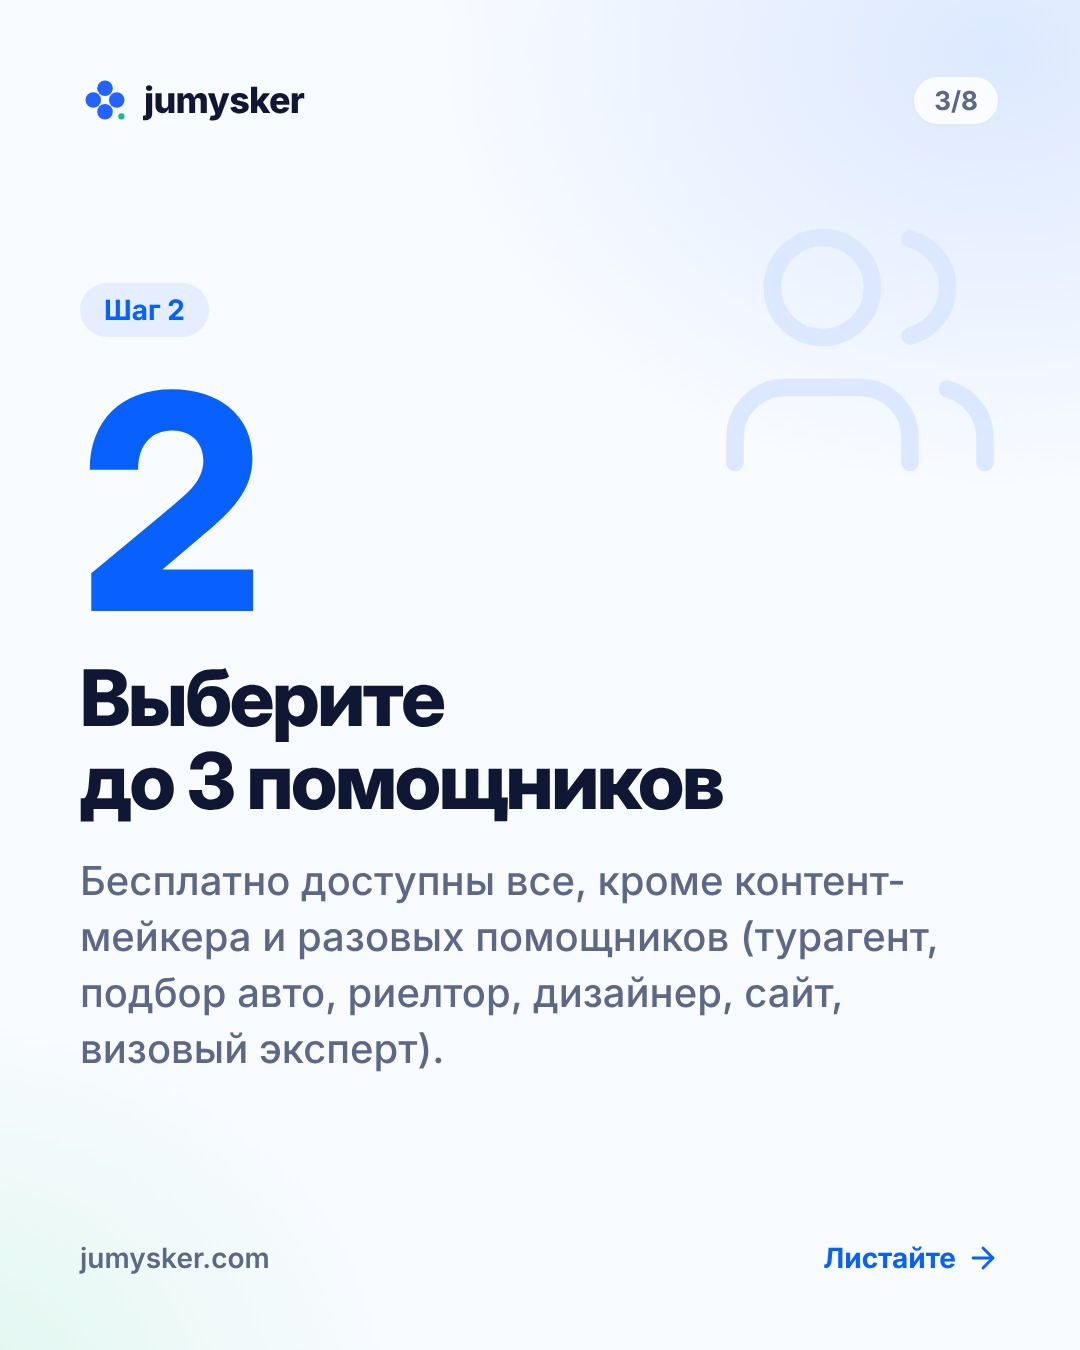
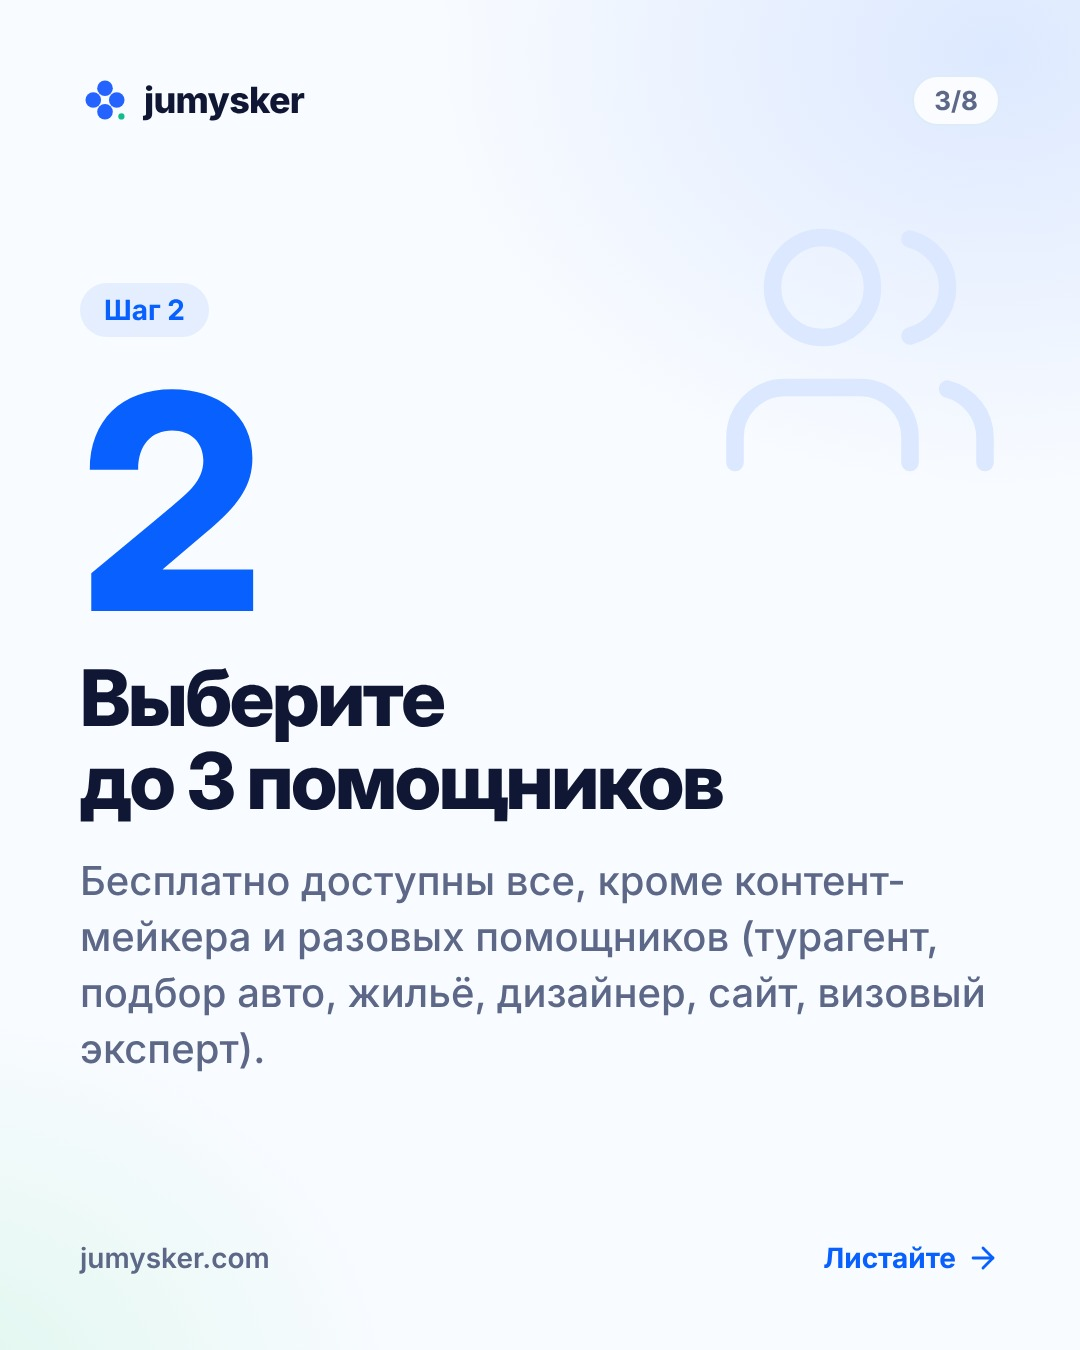
p02 follows the site of 28.10: assistants by task, housing helper
The site no longer names a lawyer, accountant or marketer: p02 lists the
assistants as sales and CRM, taxes and payroll, contracts, HR and texts,
the experts' trial limit names taxes, contracts and public procurement,
and the realtor is now the housing helper.

Claude-Session: https://claude.ai/code/session_019gEndRsAKXeKqa9cePPr5N

Changed region(s): [[0.0917, 0.7156, 0.9167, 0.8089]]

diff --git a/source/_build/content.py b/source/_build/content.py
@@ -82,7 +82,7 @@ POSTS = [
             {"type": "cover", "kicker": "Инструкция", "title": "Как начать с Jumysker <em>за 3 минуты</em>",
              "sub": "7 дней бесплатно · без банковской карты", "chips": ["Сохраните 📌"], "art": "browser.png"},
             {"type": "bigstep", "n": "1", "title": "Откройте jumysker.com", "body": "Нажмите «Попробовать» и зарегистрируйтесь. Сервис для пользователей от 18 лет.", "icon": "globe"},
-            {"type": "bigstep", "n": "2", "title": "Выберите до 3 помощников", "body": "Бесплатно доступны все, кроме контент-мейкера и разовых помощников (турагент, подбор авто, риелтор, дизайнер, сайт, визовый эксперт).", "icon": "users"},
+            {"type": "bigstep", "n": "2", "title": "Выберите до 3 помощников", "body": "Бесплатно доступны все, кроме контент-мейкера и разовых помощников (турагент, подбор авто, жильё, дизайнер, сайт, визовый эксперт).", "icon": "users"},
             {"type": "bigstep", "n": "3", "title": "Расскажите о компании", "body": "Услуги, цены, условия, как вы общаетесь с клиентами. Помощники будут учитывать это в ответах.", "icon": "building-2"},
             {"type": "text", "kicker": "Шаг 4", "title": "Поставьте первую задачу",
              "body": "Пишите так, как объяснили бы новому сотруднику.",
@@ -91,7 +91,7 @@ POSTS = [
                  ("b", "Понимаю вас! Скидок сейчас нет, но есть приятный бонус: при записи на две услуги — уход для рук в подарок 🎁 Подобрать время?")]}},
             {"type": "list", "kicker": "Лимиты пробного периода", "title": "Что входит в 7 бесплатных дней", "items": [
                 ("До 3 помощников", "Из доступных категорий"),
-                ("До 10 диалогов на помощника", "У экспертов — юриста, бухгалтера — до 5"),
+                ("До 10 диалогов на помощника", "У экспертов (налоги, договоры, госзакупки) — до 5"),
                 ("Диалог — это один чат за день", "Не путайте с количеством сообщений"),
                 ("Документы — после оплаты", "В пробный период — переписка и CRM; счета и договоры готовятся после оплаты")]},
             {"type": "list", "kicker": "Совет", "title": "Установите как приложение", "items": [
@@ -103,13 +103,13 @@ POSTS = [
         "caption": """Как начать работать с ИИ-помощниками за 3 минуты — и бесплатно 👇
 
 1⃣ Откройте jumysker.com (ссылка в профиле) и нажмите «Попробовать»
-2⃣ Выберите до 3 помощников: бухгалтер, юрист, продажи, маркетолог, HR и другие
+2⃣ Выберите до 3 помощников: продажи и CRM, налоги и зарплата, договоры, HR, тексты и другие
 3⃣ Расскажите о компании: услуги, цены, условия — помощники учтут это в ответах
 4⃣ Поставьте первую задачу обычными словами
 
 Пробный период — 7 дней без банковской карты. До 10 диалогов на помощника, у экспертов — до 5. В пробный период можно переписываться с помощниками и вести CRM, а счета и договоры готовятся после оплаты.
 
-Контент-мейкер и разовые помощники (турагент, подбор авто, риелтор, дизайнер интерьера, сайт, визовый эксперт) подключаются сразу с оплатой.
+Контент-мейкер и разовые помощники (турагент, подбор авто, помощник по жилью, дизайнер интерьера, сайт, визовый эксперт) подключаются сразу с оплатой.
 
 Сохраните пост, чтобы инструкция была под рукой 📌""",
         "caption_kz": "Jumysker-ді 3 минутта бастаңыз: jumysker.com сайтына кіріп, тіркеліңіз, 3 көмекшіге дейін таңдаңыз, компанияңыз туралы айтып, алғашқы тапсырманы жазыңыз. 7 күн тегін, банк картасынсыз.",
